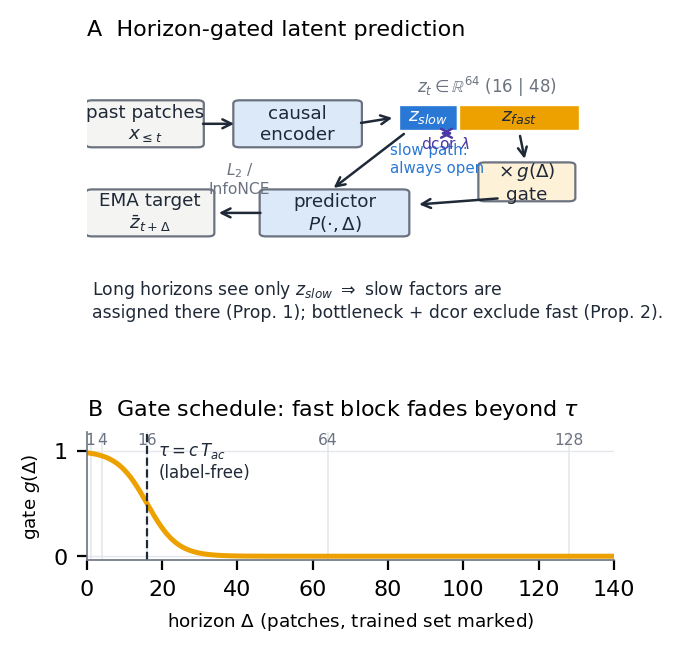
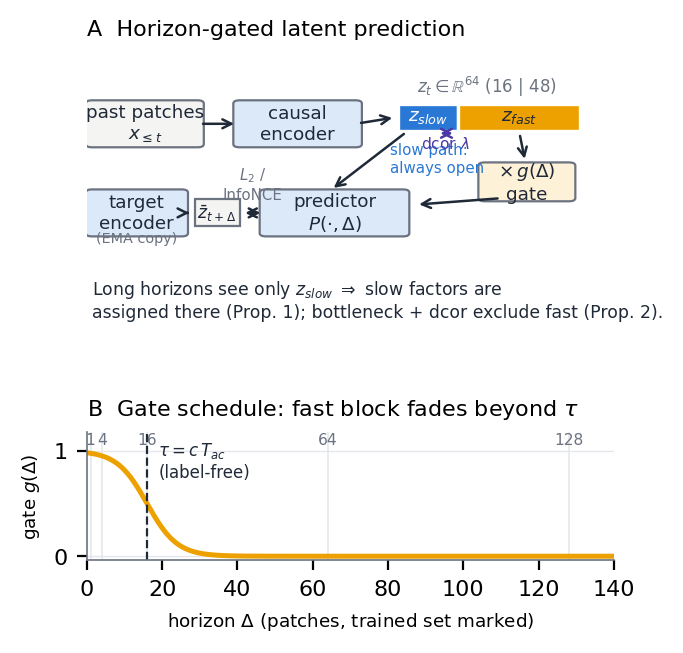
Method figure: target encoder shares encoder color; separate z-bar block
Answers the color-semantics issue: the EMA target IS the encoder (weight
copy), so both boxes now share the encoder fill, with the target embedding
z-bar as its own block feeding the loss. Applied to both fig_method.pdf
(figures_paper.py) and fig_method.pptx (fig_method_pptx.py).

Changed region(s): [[0.123, 0.245, 0.4305, 0.3982]]

diff --git a/figures_paper.py b/figures_paper.py
@@ -86,10 +86,16 @@ box(a0, 3.4, 3.3, 2.6, 1.5, "predictor\n$P(\\cdot,\\Delta)$", "#dbe9f9")
 arrow(a0, 6.1, 7.1, 4.6, 4.85)            # slow path (always open)
 arrow(a0, 7.9, 4.6, 6.2, 4.35)            # gated fast path
 a0.text(5.75, 5.55, "slow path:\nalways open", fontsize=5.4, color=BLUE, ha="left")
-# target + loss
-box(a0, 0.1, 3.3, 2.2, 1.5, "EMA target\n$\\bar z_{t+\\Delta}$", SURF)
-arrow(a0, 3.4, 4.05, 2.4, 4.05)
-a0.text(2.9, 4.75, "$L_2$ /\nInfoNCE", fontsize=5.6, color=MUTED, ha="center")
+# target encoder (same color as online encoder: it IS the encoder, EMA copy)
+box(a0, 0.1, 3.3, 1.7, 1.5, "target\nencoder", "#dbe9f9")
+a0.text(0.95, 2.95, "(EMA copy)", fontsize=5.2, color=MUTED, ha="center")
+a0.add_patch(mp.Rectangle((2.05, 3.55), 0.85, 1.0, fc=SURF, ec=MUTED, lw=0.8))
+a0.text(2.47, 4.05, "$\\bar z_{t+\\Delta}$", ha="center", va="center",
+        fontsize=6.2, color=INK)
+arrow(a0, 1.8, 4.05, 2.05, 4.05)
+a0.annotate("", (2.9, 4.05), (3.4, 4.05),
+            arrowprops=dict(arrowstyle="<->", color=INK, lw=0.9))
+a0.text(3.15, 4.55, "$L_2$ /\nInfoNCE", fontsize=5.4, color=MUTED, ha="center")
 # dcor between blocks
 a0.annotate("", (7.05, 7.0), (6.6, 7.0),
             arrowprops=dict(arrowstyle="<->", color=VIOLET, lw=0.9))

diff --git a/fig_method_pptx.py b/fig_method_pptx.py
@@ -103,10 +103,13 @@ arrow(s, 7.9, 3.5, 5.8, 3.7, color=INK)           # gated fast path
 label(s, 5.9, 2.75, 2.0, "slow path:\nalways open", size=9, color=BLUE,
       align=PP_ALIGN.LEFT)
 
-# target + loss
-box(s, 0.4, 3.3, 1.9, 1.0, "EMA target\nz̄_{t+Δ}", TGTF)
-arrow(s, 3.4, 3.8, 2.3, 3.8, color=INK)
-label(s, 2.25, 3.28, 1.2, "L₂ /\nInfoNCE", size=9, color=MUTED)
+# target encoder (same fill as online encoder: it IS the encoder, EMA copy)
+box(s, 0.3, 3.3, 1.5, 1.0, "target\nencoder", ENCF)
+label(s, 0.3, 4.32, 1.5, "(EMA copy)", size=8, color=MUTED)
+box(s, 1.95, 3.42, 0.85, 0.75, "z̄_{t+Δ}", TGTF, shape=MSO_SHAPE.RECTANGLE, size=11)
+arrow(s, 1.8, 3.8, 1.95, 3.8, color=INK)
+arrow(s, 3.4, 3.8, 2.8, 3.8, color=INK, double=True)
+label(s, 2.7, 3.22, 0.9, "L₂ /\nInfoNCE", size=8, color=MUTED)
 
 # takeaway caption
 label(s, 0.4, 4.55, 9.2,
